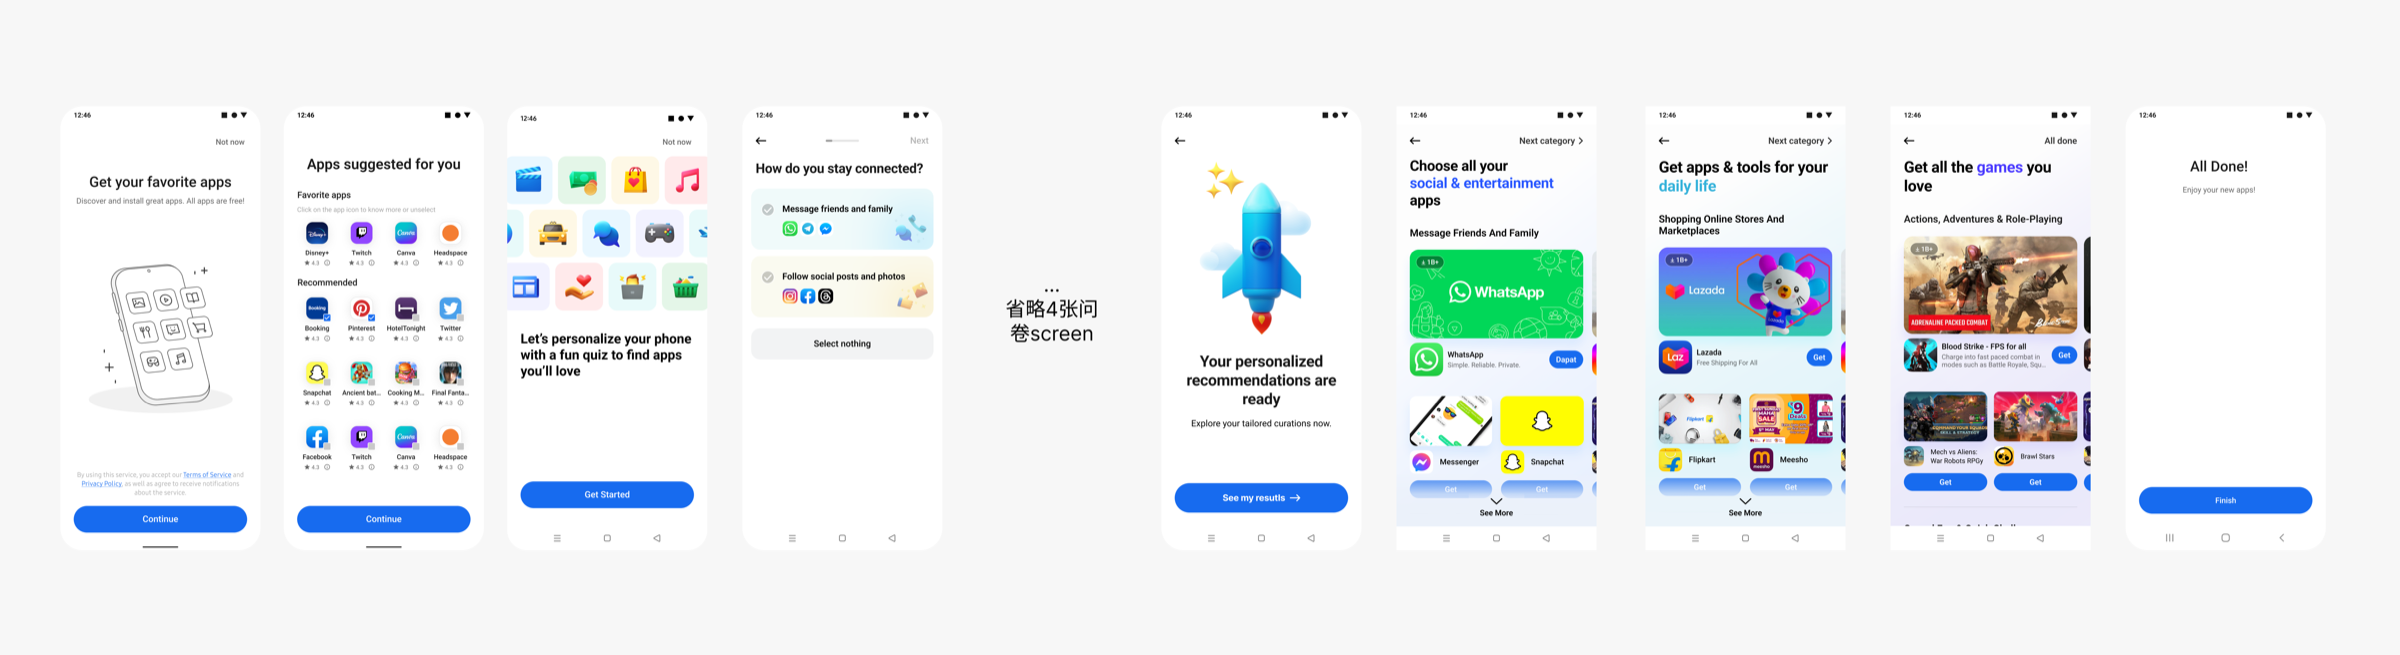
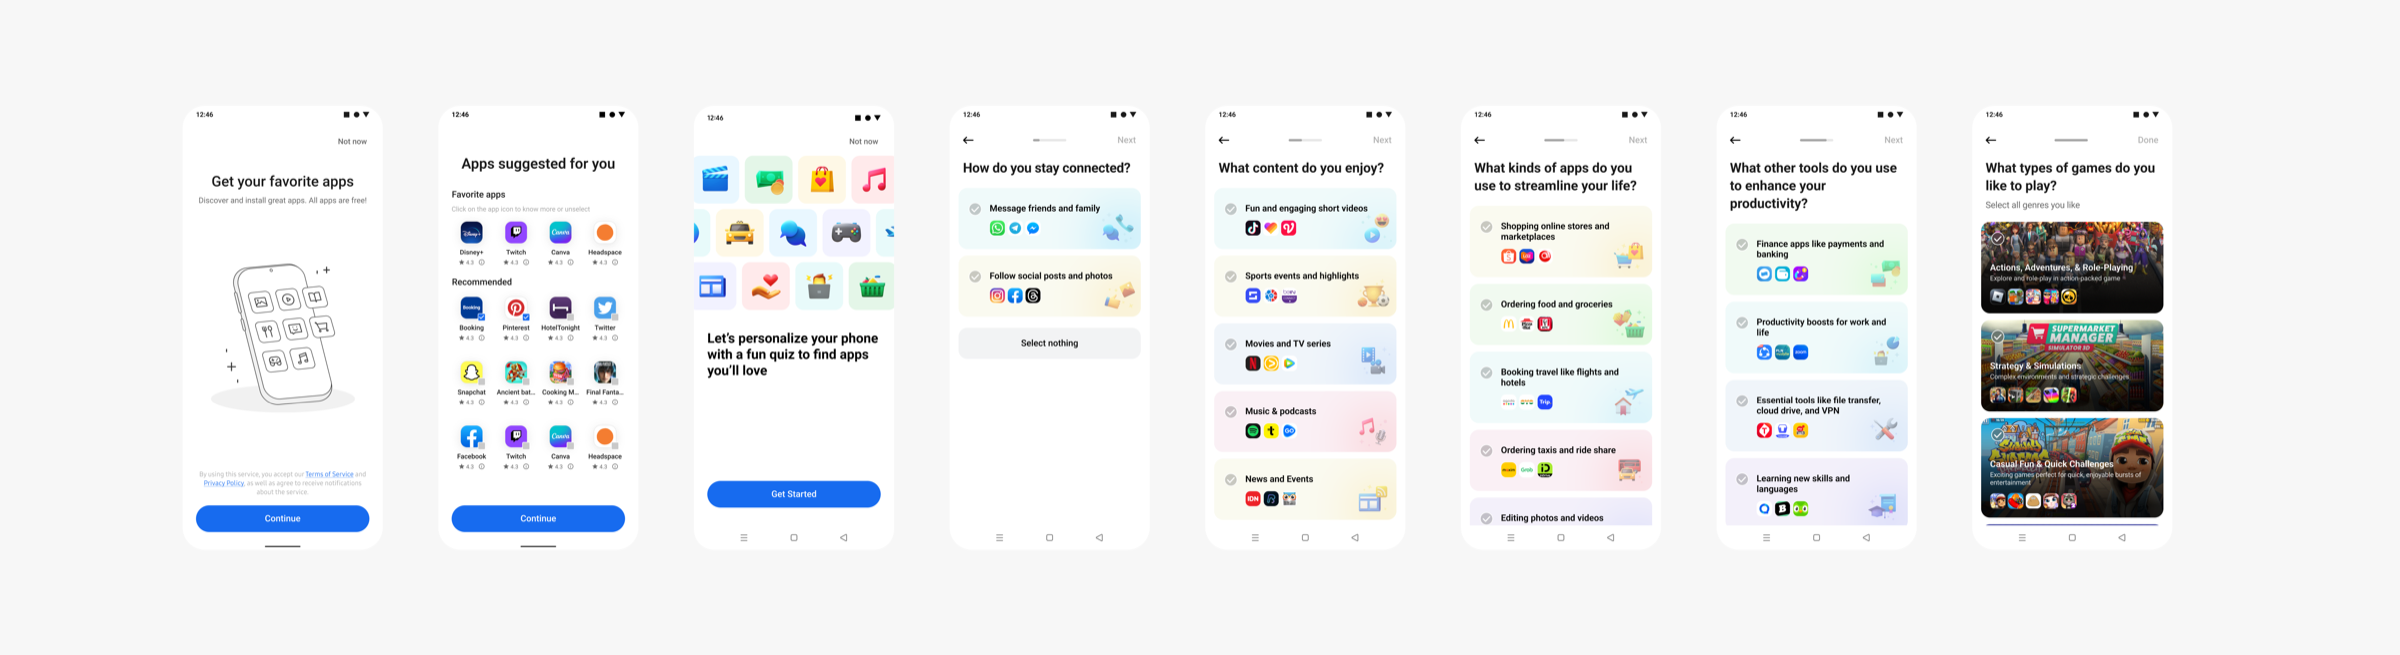
feat(oobe): show the full survey flow and its results in experiment 1
Replace the experiment 1 figure with the complete 8-screen survey flow, so
it no longer elides four of the survey screens, and add a second figure
right below it with the personalized recommendation screens that follow.

Both images are resampled to the 2400px width the other OOBE figures use.

diff --git a/app/projects/applovin-oobe/page.tsx b/app/projects/applovin-oobe/page.tsx
@@ -402,6 +402,10 @@ export default function ProjectApplovinOobe() {
             src="/oobe/exp1-survey.png"
             alt="Sanitized screens of the 5-step preference survey, one app category per page"
           />
+          <Fig
+            src="/oobe/exp1-results.png"
+            alt="Sanitized screens of the personalized recommendations that follow the survey, one category per page, ending on an all-done screen"
+          />
           <XStats stats={project.experiments.survey5.stats} />
           <Take txt={project.experiments.survey5.takeaway} />
         </div>
